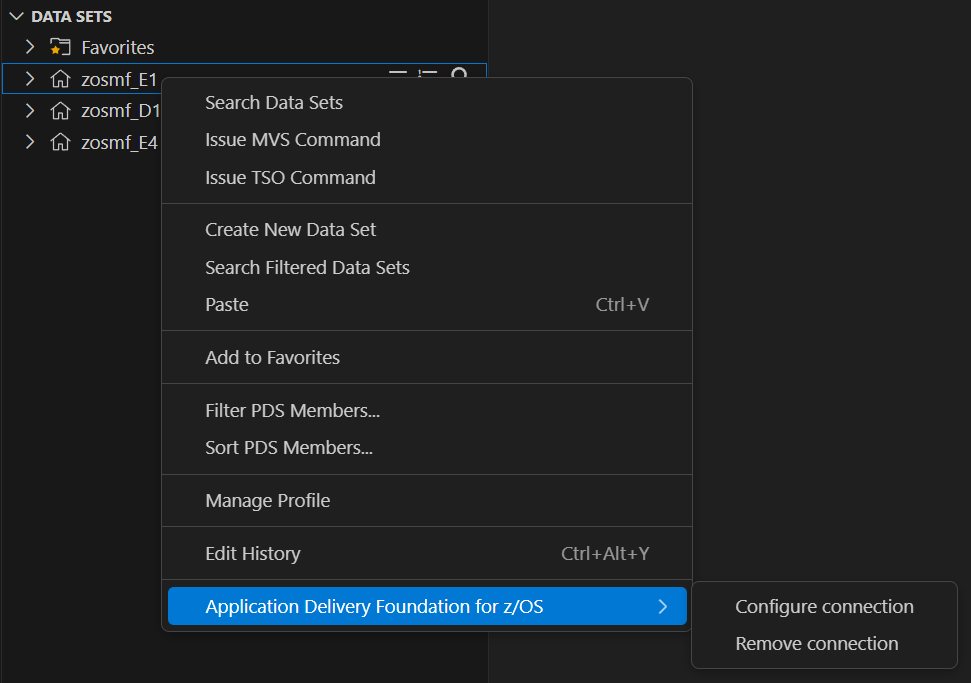
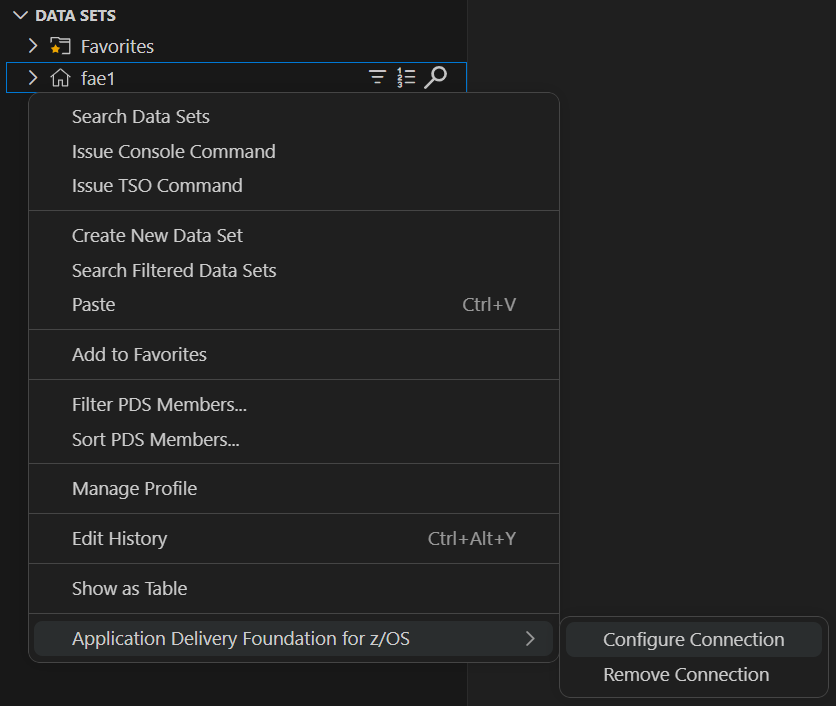
chore: add the ADFzCC readme and update its images

diff --git a/README-ADFZCC.md b/README-ADFZCC.md
@@ -1,0 +1,156 @@
+<!--suppress HtmlDeprecatedAttribute, HtmlUnknownTarget -->
+<div align="center">
+
+# IBM ADFz Common Component for z/OS&reg;
+
+[![VS Marketplace](https://vsmarketplacebadges.dev/version-short/IBM.zcommoncomponent.svg)][common-component]
+[![IBM ADFz Extension Pack](https://img.shields.io/badge/IBM-ADFz%20Extension%20Pack-blue)][extension-pack]
+[![IBM Support](https://img.shields.io/badge/IBM-Support-white)][support]
+
+</div>
+
+Provides shared functionality to VS Code extensions that access [Fault Analyzer][fault-analyzer]
+and [File Manager][file-manager] for z/OS resources.
+
+The IBM ADFz Common Component extension enables centralized credential storage for the Fault Analyzer and File Manager extensions,
+and offers menu options to configure ADFz Common Component connections, streamlining setup across products.
+
+## Table of contents
+
+- [Requirements](#requirements)
+- [Integration with Zowe Explorer](#integration-with-zowe-explorer)
+- [ADFz Common Component connections](#adfz-common-component-connections)
+  - [Configure a connection](#configure-a-connection)
+  - [Configure a connection in `zowe.config.json`](#configure-a-connection-in-zoweconfigjson)
+  - [Remove an existing connection](#remove-an-existing-connection)
+- [Getting help](#getting-help)
+
+## Requirements
+
+### General requirements
+
+- Assumes knowledge of how to [install][cc-install] and [configure][cc-config] the ADFz Common Component server.
+- [ADFz Common Component][cc-customize] must use the [AT-TLS][cc-attls] feature when configuring TLS support.
+
+### Host requirements
+
+- [IBM Application Delivery Foundation for z/OS&reg; Common Component][cc-docs] `1.10.0`+
+  - You must configure and deploy at least one ADFz Common Component server on the host you intend to use with the extension.
+
+### VS Code requirements
+
+- [VS Code][vscode] `1.108.0`+
+- [Zowe Explorer][zowe] `3.2.0`+
+  - Assumes the user is familiar with the Zowe Explorer extension before using the IBM ADFz Common Component extension.
+
+## Integration with Zowe Explorer
+
+The IBM ADFz Common Component extension builds on the strong foundation provided by Zowe Explorer.
+To preserve the familiar Zowe Explorer user experience, it purposefully avoids contributing highly
+customized UI elements whenever possible. Instead, it enhances your current workspace by:
+
+- Mapping ADFzCC connections to your Zowe profiles.
+- Adding new functionality directly to Zowe Explorer's existing views.
+
+See the [Getting help](#zowe-explorer-issues) section to report issues related to the Zowe Explorer extension.
+
+## ADFz Common Component connections
+
+The extension associates an ADFz Common Component server connection with a compatible Zowe profile.
+The connection configuration includes the server host (inferred from the associated Zowe profile),
+the server port, username, password or pass token, and whether to start the server connection in debug mode.
+
+### Configure a connection
+
+1. Open the Zowe Explorer tool window.
+2. Right-click the Zowe profile that matches the z/OS subsystem where the ADFz Common Component server runs.
+3. Select **Application Delivery Foundation for z/OS** > **Configure connection**.
+4. Enter the ADFz Common Component server port, username, password or pass token, and debug mode.
+
+<p align="center">
+  <img alt="ADFz Common Component context menu" src="images/adfzcc-menu.png" width="700" />
+  <br>
+  <small>The ADFz context menu</small>
+</p>
+
+Alternatively, you can configure a connection from the command palette by running **IBM ADFz Common Component: Manage Connections**,
+selecting a compatible Zowe profile, and choosing **Configure Connection**.
+
+<p align="center">
+  <img alt="ADFz Common Component Manage Connections" src="images/manage-connections.png" width="700" />
+  <br>
+  <small>The Manage Connections palette command</small>
+</p>
+
+### Configure a connection in `zowe.config.json`
+
+> **Important:** this is an experimental feature
+
+You can specify the ADFz Common Component server port and debug mode in a Zowe team configuration profile.
+Add an `adfzcc` object under the profile's `properties` object:
+
+```json
+{
+  "profiles": {
+    "my-profile": {
+      "type": "zosmf",
+      "properties": {
+        "host": "zosmf.example.com",
+        "port": 443,
+        "adfzcc": {
+          "port": 2860,
+          "debug": false
+        }
+      }
+    }
+  }
+}
+```
+
+When `adfzcc.port` or `adfzcc.debug` is specified, the extension uses that value instead of prompting for it.
+User credentials are still requested when they are not already available.
+
+### Remove an existing connection
+
+1. Right-click the Zowe profile with the ADFz Common Component connection.
+2. Select **Application Delivery Foundation for z/OS** > **Remove connection**.
+3. Confirm the removal.
+
+Alternatively, you can remove a connection from the command palette by running **IBM ADFz Common Component: Manage Connections**,
+selecting the configured profile, and choosing **Remove Connection**. Removing a connection also removes its linked resources.
+
+## Getting help
+
+To ask questions or report issues related to the installation, configuration,
+or use of this extension, contact [IBM Support][support].
+
+### Zowe Explorer issues
+
+The IBM ADFz Common Component extension depends on Zowe Explorer.  
+Issues might originate from core Zowe Explorer functionality rather than the extension itself.
+Examples include:
+
+- Data set and Unix System Services (USS) file browsing
+- Job management and submission
+- Base Zowe Explorer commands and views
+
+Report issues that are specific to Zowe Explorer to the Zowe Explorer [issue tracker][zowe-support].
+
+To determine the source of an issue and the appropriate reporting channel, consider the following:
+
+- Error notifications include the extension name.
+- Log entries displayed in the **Output** view are categorized by extension.
+
+[fault-analyzer]: https://marketplace.visualstudio.com/items?itemName=IBM.zfaultanalyzer
+[file-manager]: https://marketplace.visualstudio.com/items?itemName=IBM.zfilemanager
+[common-component]: https://marketplace.visualstudio.com/items?itemName=IBM.zcommoncomponent
+[extension-pack]: https://marketplace.visualstudio.com/items?itemName=IBM.application-delivery-foundation-for-zos-vscode-extension-pack
+[vscode]: https://code.visualstudio.com
+[zowe]: https://marketplace.visualstudio.com/items?itemName=Zowe.vscode-extension-for-zowe
+[cc-docs]: https://help.blueproddoc.com/adfz_common_components/welcome/index.html
+[cc-install]: https://help.blueproddoc.com/adfz_common_components/hvwr1a0_ADFzCC_Program_Directory_V1.10.pdf
+[cc-config]: https://help.blueproddoc.com/adfz_common_components/1.10.0/en/index.html
+[cc-customize]: https://help.blueproddoc.com/adfz_common_components/1.10.0/en/svrauth.html
+[cc-attls]: https://help.blueproddoc.com/adfz_common_components/1.10.0/en/attls.html
+[support]: https://www.ibm.com/mysupport/
+[zowe-support]: https://github.com/zowe/zowe-explorer-vscode/issues
